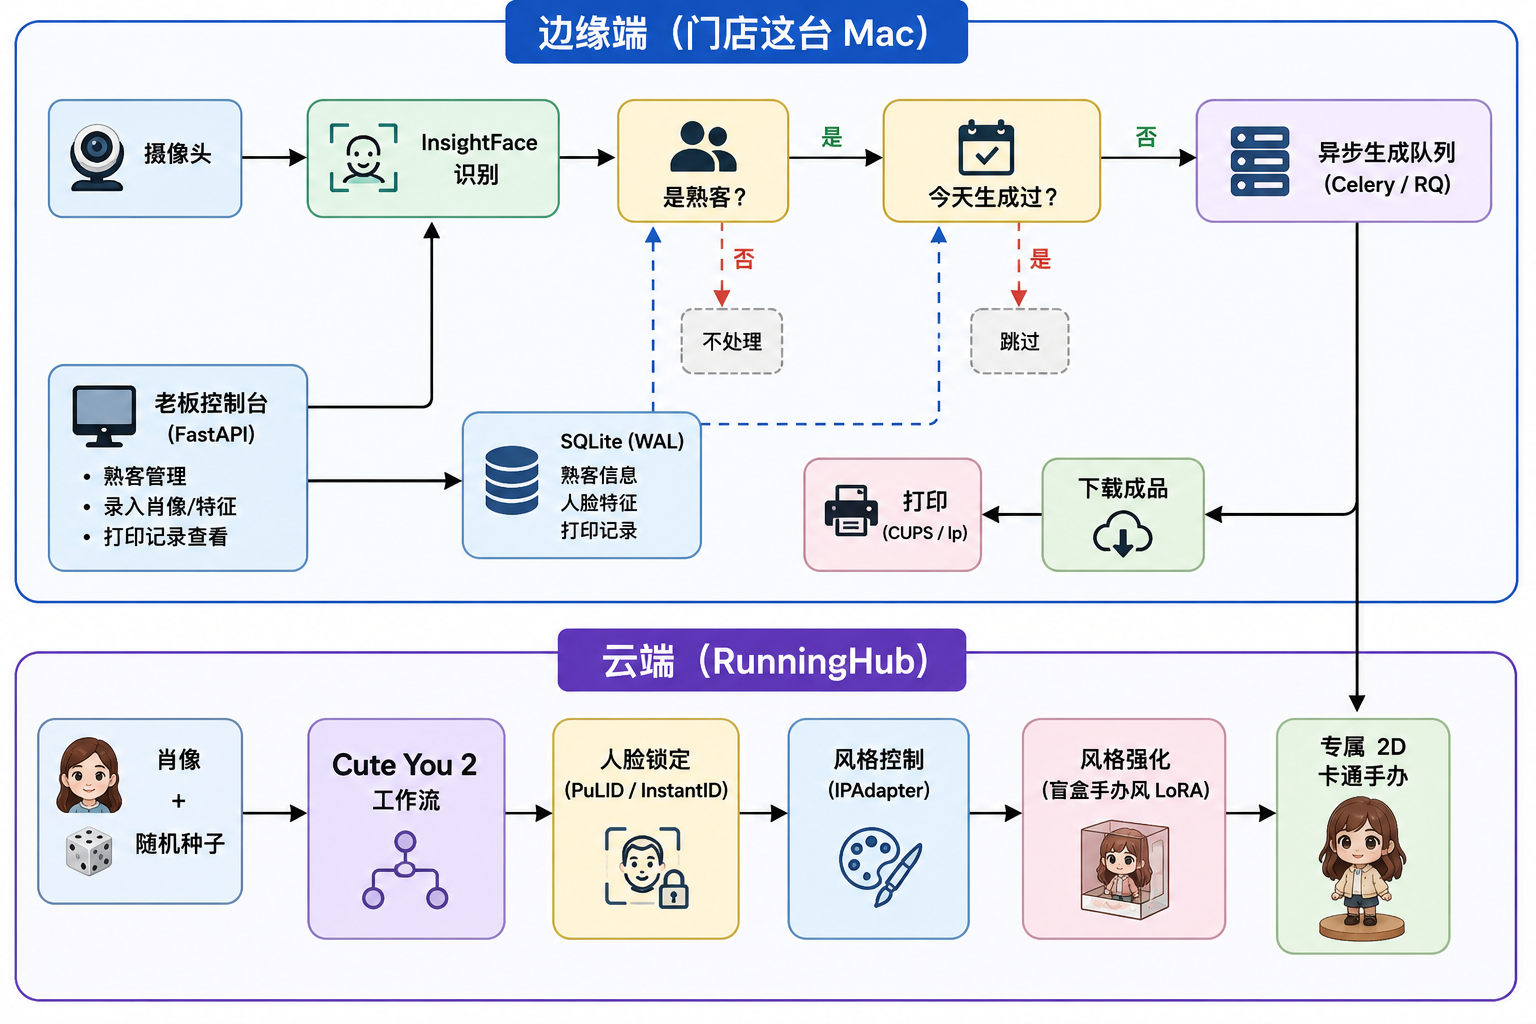
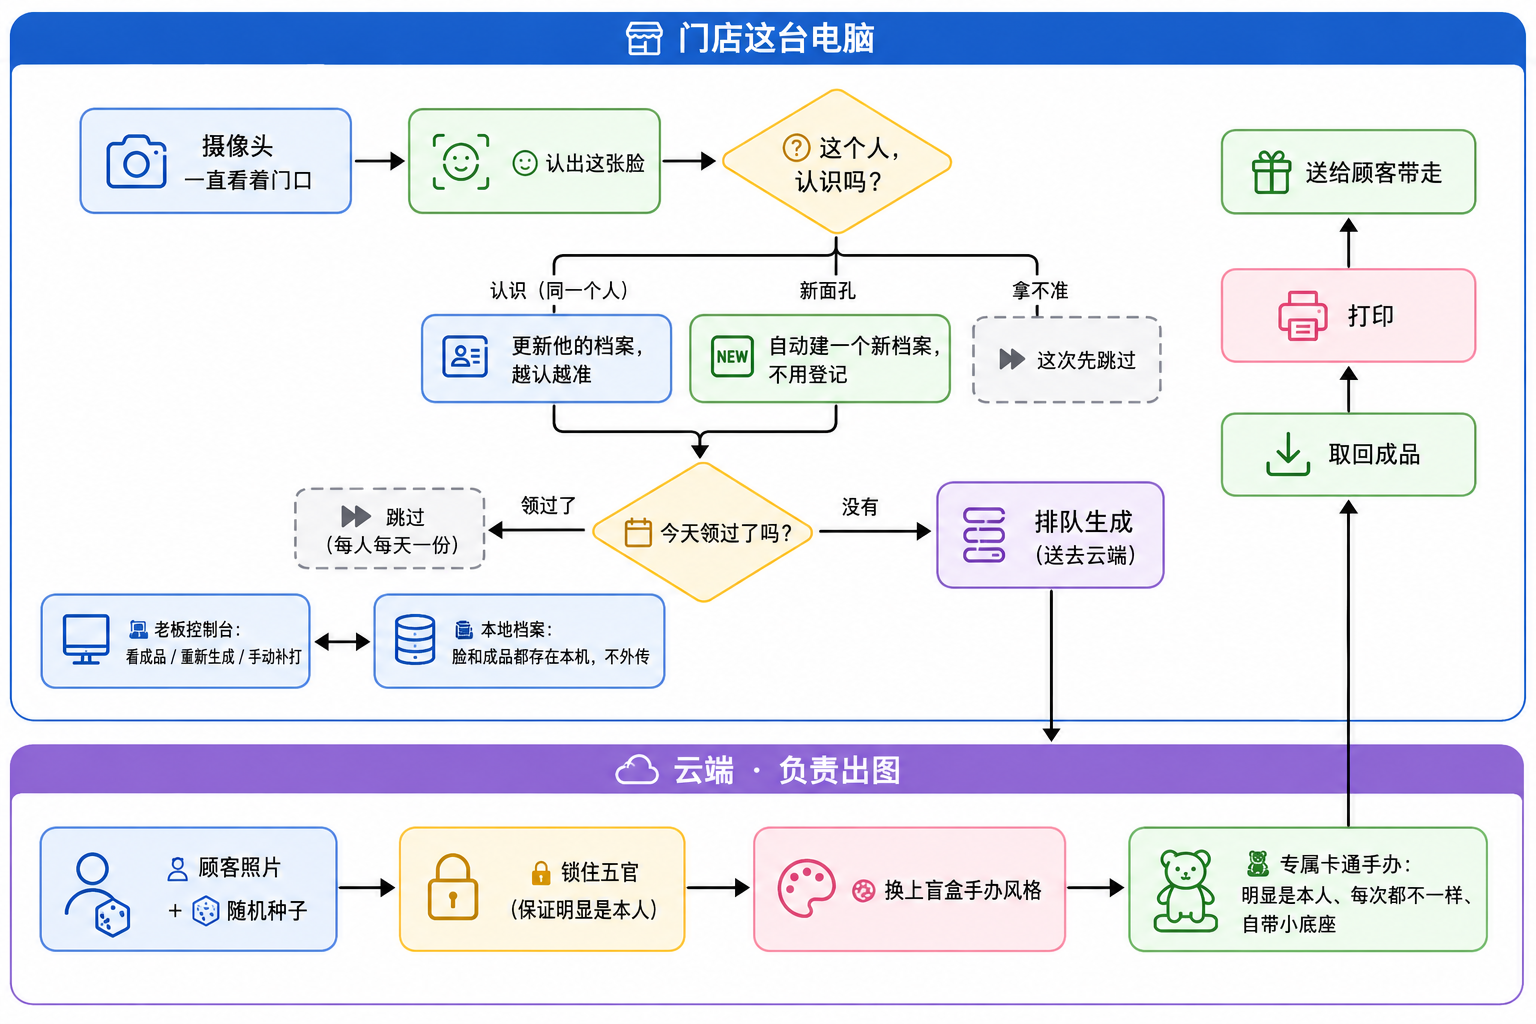
docs: 重定位 README 为「见脸即得」通用引擎,中英同步 + 新流程图
- 核心叙事从「熟客门槛系统」改为「见脸即得,熟客关系自动沉淀」
- 删除 未来规划 / 技术架构 / 阶段进度 三节,精简最近更新
- 修掉 match_threshold 死参数(实时路径不读),改用 match_high/match_low 双阈值
- 配置表/FAQ 补齐 auto_enroll、质量门槛、visitor_retention 等键
- 替换工作流程图 PNG 为新逻辑(非技术向白话版)

diff --git a/README_EN.md b/README_EN.md
@@ -2,10 +2,9 @@
 
 <p align="center"><a href="README.md">中文</a> | <b>English</b></p>
 
-<p align="center"><b>Bar regulars · Scan your face, get a personalized AI cartoon figurine · Printed on the spot</b></p>
+<p align="center"><b>Brick-and-mortar venues · Show your face, get a personalized AI cartoon figurine · Printed on the spot</b></p>
 
 <p align="center">
-  <img src="https://img.shields.io/badge/Stage-MVP_Validated-50C878" alt="Stage">
   <img src="https://img.shields.io/badge/Architecture-Edge_+_Cloud-4A90E2" alt="Architecture">
   <img src="https://img.shields.io/badge/Face_Recognition-InsightFace_ArcFace-EA4C89" alt="Recognition">
   <img src="https://img.shields.io/badge/Generation-RunningHub_ComfyUI-9B59B6" alt="Generation">
@@ -13,63 +12,64 @@
   <img src="https://img.shields.io/badge/Python-3.11-4A90E2" alt="Python">
 </p>
 
-When a regular walks in, the camera recognizes them and the system instantly generates a personalized cartoon figurine that's **unmistakably them — yet different every time**, then **prints it on the spot** as a keepsake to take home.
+The moment a customer shows their face, the camera recognizes them and **auto-files them**, and the system instantly generates a personalized cartoon figurine that's **unmistakably them — yet different every time**, then **prints it on the spot** as a keepsake to take home. **No enrollment required** — when the same person visits again, the system automatically clusters those faces into one person in the background, getting more accurate and more like them over time.
 
 In short: turn a **face-scan** into a personalized, scarce, take-home, share-worthy surprise gift — a **memorable, shareable** differentiator for brick-and-mortar venues.
 
 ```text
-Customer arrives  →  📷 Recognize regular  →  🗓 Once per day  →  🎨 Cloud-generate personalized cartoon (same identity · never repeats)  →  🖨 Print keepsake on the spot
+Customer arrives → 📷 Recognize & auto-file on sight → 🧠 Cluster to a person (better with every visit) → 🗓 Once per person per day → 🎨 Cloud-generate personalized cartoon (same identity · never repeats) → 🖨 Print keepsake on the spot
 ```
 
-> 📖 **Reading guide** — Owners: [What it delivers](#-what-it-delivers-for-your-venue) · [Quick Start](#-quick-start) · [How to Use](#-how-to-use) · [FAQ](#-faq). Investors: [Value & Moat](#-business-value--moat) · [Roadmap](#-roadmap).
+> 📖 **Reading guide** — Owners: [What it delivers](#-what-it-delivers-for-your-venue) · [Quick Start](#-quick-start) · [FAQ](#-faq). Investors: [Value & Moat](#-business-value--moat).
 
 <!-- Tip: drop a console screenshot / a face-scan→print demo GIF here — most compelling -->
 
+## 🆕 Core Model: Get It on Sight, Regulars Emerge Automatically
+
+HEYOU is no longer an "**enroll first, then recognize**" regulars-gating system. The core flow now is:
+
+- **Everyone who shows up gets one** — any face in front of the camera is auto-filed and generated. Zero enrollment, zero staff action.
+- **Regulars are recognized by the system itself** — when the same person returns, their face is automatically **clustered into the same person** (many views per person, ever more accurate) — no tagging by staff.
+- **Once per person per day** — dedup is per *person*, controlling cost while creating a "come back for today's drop" scarcity.
+- **Pure-regulars mode still available** — to serve only pre-enrolled regulars, set `orchestration.auto_enroll` to `false`.
+
+> This is the **fundamental business-logic difference** from earlier versions: from "reward pre-enrolled regulars" to "get it on sight, with the regular relationship accreting automatically in the background."
+
 ## 📋 Recent Updates
 
-- ✅ **2026-07-14** **Auto-enroll · cluster every face to a person**: no longer limited to pre-enrolled regulars — **any face that shows up is auto-enrolled**; each detected face is matched against the known database, merged into the **same person's feature library** if it's a returning face (more views → better recognition over time) or filed as a **new person** if not, then generated and printed as before (once per person per day). Includes a quality gate (rejects side/blurry faces), a two-threshold decision (fewer mismatches and duplicate records), a per-person library cap, automatic cleanup of inactive visitors, and an optional **global daily cap** for cost. Set `orchestration.auto_enroll` to `false` to serve only enrolled regulars.
-- ✅ **2026-07-14** **Full Windows parity**: real printing on the **Liene PixCut S1 with AI die-cut stickers** now works on Windows too, and the whole recognize → generate → print loop has been validated on real hardware. **Mac and Windows run the same code with identical features** — hands-free auto-printing on either; printer connection, cleanup, and continuous printing are all automated. Setup in [docs/WINDOWS.md](docs/WINDOWS.md).
-- ✅ **2026-06-29** **Windows 10 support**: the same codebase runs on Windows; printing can use the system printer or the official PixCut app, and the camera adapts automatically. See [docs/WINDOWS.md](docs/WINDOWS.md).
-- ✅ **2026-06-23** Printing upgraded to the **Liene PixCut S1 cut-printer**: real printing by driving the official app, with **AI die-cut** (sticker cut along the subject's contour) or plain full-bleed printing, switchable in config; the print backend toggles between `lp` (system CUPS printer) and `pixcut` (PixCut S1). Added a **debug mode** (runs the whole print flow but never clicks "Cut" — no print, no ribbon, logs success) and **continuous-print self-healing** (restart the print app every N prints to clear accumulated canvases / avoid tab buildup).
-- ✅ **2026-06-23** Log hygiene: service logs now **rotate by size** into `data/logs/` (default 5MB×5 ≈ 25MB cap, oldest auto-deleted) plus an age-based prune on startup — **so long runs never fill the disk**; the print path also cleans up the print app's own accumulated logs.
-- ✅ **2026-06-05** "Standing figurine" template fix: removed stray shoes, force full-body output with a built-in round base, and added exclude-tags to the auto-tagger (blocking "half-body / held-object" tags from polluting the template) — fixing the "half-body output, stray props" issue.
-- ✅ **2026-06-04** New "Cross-legged" pose template: a precise pose tag (`indian style`) controls the seated pose; the base is rendered as part of the 3D output — no external overlay image needed.
-- ✅ **2026-06-03** Console upgrades: paginated regulars management, generation history (configurable retention), a "Generate / Regenerate" state button, and a **manual-print fallback**.
-- ✅ **2026-06-02** Dark "nightclub" demo console launched; face recognition auto-starts/stops with the server and auto-releases the camera during enrollment (avoiding conflicts).
-- ✅ **2026-06-01** Cloud pipeline live end-to-end on RunningHub (upload → create task → inject portrait + random seed → poll → download, ≈2.3 min per image); fixed Cute You 2's implicit wiring so it runs reliably via API.
-- ✅ **Late May 2026** Phase 1 face-recognition loop: InsightFace detection + ArcFace embeddings, cosine matching, daily dedup.
+- ✅ **2026-07-14** **Auto-enroll · cluster every face to a person**: no longer limited to pre-enrolled regulars — **any face that shows up is auto-filed**; each detected face is matched against the known database, merged into the **same person's feature library** if it's a returning face (more views → better recognition over time) or filed as a **new person** if not, then generated and printed as before (once per person per day). Includes a quality gate (rejects side/blurry faces), a **two-threshold decision** (fewer mismatches and duplicate records), a per-person library cap, automatic cleanup of inactive visitors, and an optional **global daily cap** for cost.
+- ✅ **2026-07-14** **Full Windows parity**: real printing on the **Liene PixCut S1 with AI die-cut stickers** now works on Windows too, and the whole recognize → generate → print loop has been validated on real hardware. **Mac and Windows run the same code with identical features** — hands-free auto-printing on either. Setup in [docs/WINDOWS.md](docs/WINDOWS.md).
+- ✅ **2026-06-23** Printing upgraded to the **Liene PixCut S1 cut-printer**: real printing by driving the official app, with **AI die-cut** (sticker cut along the subject's contour) or plain full-bleed printing; the print backend toggles between `system` (OS CUPS/win32print printer) and `pixcut` (PixCut S1). Includes a **debug mode** (runs the whole print flow but never clicks "Cut" — no print, no ribbon) and **continuous-print self-healing** (restart the print app every N prints to clear accumulated canvases).
 
 ## 🎯 What It Delivers for Your Venue
 
 | Pain point | How HEYOU solves it |
 | --- | --- |
 | Homogeneous experience, nothing memorable | A **personalized cartoon** that's unmistakably them and one-of-a-kind — perfect for photos and social check-ins |
-| No hook to bring regulars back | A **regulars-only, once-a-day** scarce gift that builds a "come back for today's drop" habit |
-| Campaigns are hard and costly to run | Enroll once, then **auto-recognize and auto-generate** — zero staff effort, zero learning curve |
+| No hook to bring customers back | A **get-it-on-sight, once-per-person-per-day** scarce gift — and the system recognizes returning customers automatically, building a "come back for today's drop" habit |
+| Campaigns are hard and costly to run | **Zero enrollment, zero action** — everyone who shows up is auto-recognized, auto-filed, auto-generated; staff never touch a button |
 | Online spread is hit-or-miss | A take-home physical card = a **social-sharing vehicle** that carries your brand (branded card template on the roadmap) |
 
-**For staff**: enroll a regular's photo once; everything after is automatic — with a "manual reprint" fallback when things get busy.
+**For staff**: zero action — customers are recognized, filed, and printed fully automatically; there's a "manual reprint" fallback when things get busy.
 **For owners**: runs on an ordinary computer (**Mac or Windows**) + a camera + a printer, with heavy compute in the cloud — **launch and validate with minimal investment**.
 
 ## ✨ Highlights
 
-- ✅ **Recognizes regulars** — InsightFace (SCRFD detection + ArcFace embeddings) + cosine matching; tunable threshold, "**better to miss than to misidentify**".
+- ✅ **Recognize on sight · auto-cluster to a person** — InsightFace (SCRFD detection + ArcFace embeddings) + cosine similarity; a **two-threshold** decision: merge into the same person if similar enough, create a new person if clearly not, skip if uncertain — "**better to miss than to misidentify**"; more views per person = ever more accurate.
 - ✅ **Same identity · never the same twice** — PuLID + InstantID lock the facial features (**unmistakably them**); a random seed makes **every render different** — no duplicates.
 - ✅ **Multiple pose templates** — "Standing figurine" and "Cross-legged" already supported, each with a display base; templates are extensible.
-- ✅ **Once per person per day** — automatic dedup; controls cost and creates scarcity (count configurable).
-- ✅ **Owner console (dark nightclub style)** — enroll / paginated management / generation history / one-click regenerate / **manual-print fallback** / live status.
+- ✅ **Once per person per day** — per-person dedup; controls cost and creates scarcity (count configurable, with a global daily cap as a backstop).
+- ✅ **Owner console (dark nightclub style)** — paginated visitor/regular management / manual enroll / generation history / one-click regenerate / **manual-print fallback** / live status.
 - ✅ **Async generation, never blocks** — each ≈2.3 min cloud render is handled by a dedicated worker, **never blocking the camera loop**; in-flight & same-day guards.
-- ✅ **Edge + Cloud architecture** — the local Mac only runs recognition and scheduling; heavy generation lives in the cloud — **flexible, controllable compute cost**.
+- ✅ **Edge + Cloud architecture** — the local computer only runs recognition and scheduling; heavy generation lives in the cloud — **flexible, controllable compute cost**.
 - ✅ **Pluggable generation backend** — switch between `mock` (offline self-test, free) and `runninghub` (real generation) in one setting.
 - ✅ **Real printing · die-cut stickers** — supports the **Liene PixCut S1 cut-printer** (AI die-cut along the subject's contour) and ordinary system printers, switchable in one setting, with **real printing on both Mac and Windows**; includes a **debug mode** (runs the full flow without printing / consuming ribbon) and continuous-print self-healing.
 - ✅ **Cross-platform parity** — the same code runs identically on **macOS and Windows 10**: recognition, generation, and printing are all validated end-to-end on real hardware.
-- ✅ **Status at a glance** — three top indicators: Recognition (one-click toggle) / Engine (cloud connectivity) / Printer (connected & ready; the PixCut backend shows whether the official app is online).
+- ✅ **Automatic visitor cleanup** — auto-filed visitors are purged after a configurable period of inactivity, so the feature library never grows unbounded (manually enrolled regulars are unaffected).
 
 ## 📊 How It Works
 
 <img src="static/images/ChatGPT_Image_202601_51_23.png" alt="How it works"/>
-
-A four-step loop: **recognize → daily dedup → identity-consistent + random generation → print on the spot.** Every step is configurable and swappable (recognition threshold, generation template, print toggle).
 
 ## 🖼 Examples
 
@@ -77,7 +77,7 @@ A four-step loop: **recognize → daily dedup → identity-consistent + random g
 
 <table>
 <tr>
-<td width="50%" align="center"><b>Real Photo (input)</b><br/><sub>enrolled regular's portrait</sub></td>
+<td width="50%" align="center"><b>Real Photo (input)</b><br/><sub>in-venue customer portrait</sub></td>
 <td width="50%" align="center"><b>Personalized Cartoon Figurine (output)</b><br/><sub>same identity · random every time</sub></td>
 </tr>
 <tr>
@@ -105,9 +105,12 @@ uv run python scripts/run_server.py
 
 # (optional) self-check before going live: recognition / DB / generation backend
 uv run python scripts/smoke_test.py
+
+# (optional) validate the "auto-enroll → cluster" decision logic (offline, no camera, free)
+uv run python scripts/smoke_autoenroll.py
 ```
 
-After launch: enroll regulars' photos on the **Enroll** tab → recognition triggers automatically when they arrive → view results, regenerate, or manually print on the **Regulars** tab.
+After launch: **customers are recognized, filed, generated, and printed automatically on arrival (once per person per day) — no enrollment needed**; in the console you can view results, regenerate, manually reprint, and also manually enroll/manage regulars.
 
 > 🪟 **Windows 10**: the same code runs on Windows with identical features (PixCut real printing or a system printer, camera adapts automatically) — see **[docs/WINDOWS.md](docs/WINDOWS.md)** for setup and printer configuration.
 
@@ -119,44 +122,22 @@ Global configuration lives in `config.yaml`.
 | --- | --- |
 | `generation.backend` | `mock` (offline self-test, free) \| `runninghub` (real cloud generation) |
 | `generation.runninghub.workflow_id` | which workflow (standing / cross-legged use different IDs) |
-| `recognition.match_threshold` | cosine similarity threshold; higher = stricter (better to miss than to misidentify) |
+| `orchestration.auto_enroll` | **Auto-enroll master switch** (default `true`): every in-venue face is auto-filed and clustered to a person; set `false` to fall back to the old "pre-enrolled regulars only" mode |
+| `recognition.match_high` · `match_low` | auto-cluster **two thresholds** (cosine similarity, higher = stricter): `≥ match_high` → same person, merge into their library; `< match_low` → new person; in between → uncertain, skip |
+| `recognition.min_face_px` · `enroll_min_det_score` · `enroll_max_pose_deg` | quality gates: min face pixels / min detection confidence / max pitch-yaw angle — loosen these to make recognition catch **more** faces |
 | `orchestration.daily_limit` | max generations per person per day (default `1`) |
+| `orchestration.global_daily_cap` | all-users daily generation ceiling for cost safety (`0` = unlimited) |
 | `storage.history_retention_days` | days to keep generation history (default `3`) |
+| `storage.visitor_retention_days` | purge auto-filed visitors after N days of inactivity (default `30`; manually enrolled regulars unaffected) |
 | `printing.enabled` | auto-print toggle (currently `false`; manual print as fallback, enable once hardware is finalized) |
-| `printing.backend` | print backend: `system` (cross-platform OS printer: CUPS on mac/Linux, win32print on Windows) \| `pixcut` (drives the official app for die-cut stickers, **mac + Windows**) |
-| `printing.pixcut.cutout` | PixCut: apply **AI die-cut** each print (sticker cut along the contour; consumes a die-cut credit) |
-| `printing.pixcut.dry_run` | PixCut **debug mode**: run the whole flow but never click "Cut" — no print, no ribbon, logs success |
-| `printing.pixcut.restart_every` | PixCut: restart the app every N prints to clear accumulated canvases (default `10`, `0` = off) |
-| `logging.max_bytes` · `backup_count` | service-log rotation size · kept rotations (default `5MB × 5` ≈ 25MB hard cap) |
-| `logging.retention_days` | prune logs older than N days on startup (default `7`, `0` = off) |
-
-## 💻 How to Use
-
-The console has two tabs — **Enroll** and **Regulars** — with three live status indicators on top.
-
-### Top status indicators
-- **Recognition** — online / paused / off (click to toggle)
-- **Engine** — RunningHub cloud connectivity
-- **Printer** — connected and ready or not
-
-### Enroll (add a regular)
-- Supports **drag-and-drop / click-to-upload / live capture** (capturing auto-pauses recognition to release the camera)
-- The system auto-detects the face, extracts embeddings, and stores them; one clear front-facing photo is enough
-
-### Regulars (day-to-day operations)
-- **Paginated list**, each regular showing their portrait; those generated today also show the latest cartoon
-- **State button**: not generated today → `Generate`; already generated → `Regenerate`; in progress → disabled
-- **Manual print**: a fallback when auto-print fails — reprint the latest output with one click
-- **Generation history**: view the last N days (retention configurable)
-- **Delete**: remove a regular and their portrait
-
-### Customer arrives (fully automatic)
-No staff action needed: recognition detects the regular → if not yet generated today, it auto-queues generation → (once auto-print is enabled) it prints automatically.
+| `printing.backend` | print backend: `system` (OS printer: CUPS on mac/Linux, win32print on Windows) \| `pixcut` (drives the official app for die-cut stickers, **mac + Windows**) |
+| `printing.pixcut.cutout` · `dry_run` · `restart_every` | AI die-cut (sticker cut along contour) / debug mode (full flow, no real print / ribbon) / restart the app every N prints to clear canvases |
+| `logging.max_bytes` · `backup_count` · `retention_days` | service-log rotation size · kept rotations · prune-on-startup age (default `5MB × 5` ≈ 25MB) |
 
 ## ❓ FAQ
 
-**Q: What about strangers (not pre-enrolled)?**
-A: By default it **auto-enrolls every face**: anyone who shows up is filed automatically, repeat visits are merged into one person (recognition improves as views accumulate), new faces create a new person, and it generates + prints as usual. To serve only pre-enrolled regulars, set `orchestration.auto_enroll` to `false`.
+**Q: What happens to people who aren't pre-enrolled?**
+A: This is exactly the point of the new version — by default it **auto-enrolls every face**: anyone who shows up is filed automatically, repeat visits are clustered into one person (recognition improves and looks more like them as views accumulate), new faces create a new person, and it generates + prints as usual. **No enrollment whatsoever.** To serve only pre-enrolled regulars, set `orchestration.auto_enroll` to `false`.
 
 **Q: Why only once per day per person?**
 A: It controls cloud cost and creates an "exclusive scarcity" that encourages return visits. The count is configurable in `config.yaml`; you can also set `orchestration.global_daily_cap` as an all-users daily ceiling for cost safety.
@@ -164,14 +145,14 @@ A: It controls cloud cost and creates an "exclusive scarcity" that encourages re
 **Q: How close is the likeness?**
 A: InstantID + PuLID lock the facial features — **unmistakably them**; a random seed varies the pose and details each time — **same identity, never a repeat**.
 
-**Q: Could it misidentify someone?**
-A: It uses a high threshold and a "better to miss than to misidentify" policy; tune via `match_threshold`.
+**Q: Could it misidentify someone / split one person into several?**
+A: Auto-clustering uses **two thresholds** (`recognition.match_high` / `match_low`): merge into an existing person only when similar enough, create a new person only when clearly different, and skip anything uncertain — "better to miss, or even file a duplicate, than to wrongly merge into someone else." Tune it via `match_high` / `match_low` and the quality gates (`min_face_px`, etc.). (Note: the legacy `match_threshold` is used only by the offline `smoke_test.py` — the live recognition path **does not read it**.)
 
 **Q: How is privacy handled?**
-A: Face **embeddings** and portraits are stored **locally** in SQLite and never leave the machine; only the portrait is sent to RunningHub at generation time. With auto-enroll on, in-venue faces are captured automatically; auto-enrolled visitors are purged after `storage.visitor_retention_days` (30 by default) of inactivity. For a real deployment, handle local notice/consent and retention compliance.
+A: Face **embeddings** and portraits are stored **locally** in SQLite and never leave the machine; only the portrait is sent to RunningHub at generation time. With auto-enroll on, in-venue faces are captured automatically; auto-filed visitors are purged after `storage.visitor_retention_days` (30 by default) of inactivity. For a real deployment, handle local notice/consent and retention compliance.
 
 **Q: Roughly how much does it cost?**
-A: Local recognition is free; each generation consumes RunningHub paid credits, capped at one per person per day — overall controllable. Use the `mock` backend for zero-cost self-testing.
+A: Local recognition is free; each generation consumes RunningHub paid credits, capped at one per person per day (with a global daily cap as a backstop) — overall controllable. Use the `mock` backend for zero-cost self-testing.
 
 **Q: Any printer requirements?**
 A: Two backends, switched via `printing.backend` in `config.yaml`: `system` uses any OS printer (CUPS on mac/Linux, win32print on Windows); `pixcut` drives the **Liene PixCut S1 cut-printer**'s official app for **AI die-cut** stickers (cut along the subject's contour) and full-bleed prints — **works on both macOS and Windows**. To validate the whole chain without consuming ribbon, use `printing.pixcut.dry_run` (runs the full flow but doesn't really print). Auto-print (`printing.enabled`) is off by default with manual fallback, to be enabled once the on-site setup is finalized.
@@ -182,65 +163,25 @@ A: Two backends, switched via `printing.backend` in `config.yaml`: `system` uses
 
 **Why now**
 
-- Mature generative AI + the rise of the offline experience economy — "scan your face, get a personalized IP" is finally low-friction to deploy
-- A venue only needs an ordinary Mac + camera + printer, with heavy compute in the cloud — **validate first, invest later**
+- Mature generative AI + the rise of the offline experience economy — "show your face, get a personalized IP" is finally low-friction to deploy
+- A venue only needs an ordinary computer + camera + printer, with heavy compute in the cloud — **validate first, invest later**
 
 **The hook**
 
-- **Personalized** (unmistakably them) × **Scarce** (once a day) × **Take-home** (physical card) × **Shareable** (social spread)
+- **Personalized** (unmistakably them) × **Scarce** (once per person per day) × **Take-home** (physical card) × **Shareable** (social spread)
+- **Zero-friction experience**: get it on sight — no QR scan, no signup, no staff enrollment
 
 **Technical moat (not "just a filter")**
 
 - **Identity-consistent, controllable, templated generation**: lock the face (InstantID/PuLID) + lock pose & base (prompt engineering, ControlNet next) + controlled randomness — "different every time, yet unmistakably them"
+- **Auto identity-clustering on sight**: two thresholds + quality gates + a multi-embedding library per person keep recognizing the same person ever more accurately with no manual tagging, while suppressing wrong merges and duplicate records
 - **Edge–cloud decoupling + pluggable backend**: switch scenes by swapping templates; flexible compute cost
-- **Productized end-to-end loop**: recognize → dedup → async generate → print, with scheduling, status monitoring and fallbacks — already validated on real hardware
+- **Productized end-to-end loop**: recognize → cluster → dedup → async generate → print, with scheduling, status monitoring and fallbacks — already validated on real hardware
 
 **Transferability**
 
-- The same engine ports to **restaurants / livehouses / expos / pop-ups / attractions / brand events** — a general "scan-to-personalized-avatar" capability
+- The same engine ports to **restaurants / livehouses / expos / pop-ups / attractions / brand events** — a general "get-a-personalized-avatar-on-sight" capability
 
 **Potential business models**
 
 - All-in-one hardware + consumables (stickers) + SaaS subscription / per-print revenue share; a unified multi-store platform for chains; venue-owned IP skins / collaborations / seasonal editions
-
-## 🔮 Roadmap
-
-### 🟢 Next Version (Planned)
-
-- **Branded card template** — composite **logo + customer nickname + date (+ QR code)** onto the output — a ready-to-share branded sticker/card
-- **Enable auto-print** — the PixCut S1 real-print chain is **wired into the console on both Mac and Windows** (with AI die-cut, debug mode, and continuous-print self-healing); flip `printing.enabled` on once the on-site setup is finalized for a hands-free "recognize → print" loop
-- **ControlNet pose locking** — lock "full body + pose + base" with a full-body skeleton, **fully solving the occasional "half-body output" from front/half-body inputs**; pose templates become freely extensible
-- **Pose/style template library** — beyond standing and cross-legged, add more poses and **seasonal/themed skins**
-- **Monitoring platform + auth** — multi-device/remote view of runtime status, generation and print counts; owner login (the console is currently local and unauthenticated)
-
-### 🟡 To Be Decided (after a demo round)
-
-- **Deployment hardware** — external camera (USB / IP), deployment PC (Mac / Windows), printer choice (color vs. **B&W thermal sticker** — thermal would need a line-art workflow swap)
-- **Throughput** — currently single cloud concurrency (limit = 1); decide a peak-time queuing / multi-concurrency strategy
-- **New-customer flow** — QR self-enrollment, first-visit onboarding
-
-### 🔵 Long-term Vision
-
-- Grow from "bar-regular gifts" into a **general "scan-to-personalized-IP" engine** spanning offline venues
-- Accumulate **visit-frequency / activity / retention** dashboards to power venue operations
-- **IP-ification and social virality**: venue-owned skins, collaborations, seasonal limited editions — shareable content assets
-
-## 🧱 Tech Architecture (for technical due diligence)
-
-| Layer | Components |
-| --- | --- |
-| **Edge (macOS / Windows 10)** | InsightFace (buffalo_l: SCRFD + ArcFace, CPU/onnxruntime) · FastAPI console + async generation worker · SQLite (WAL) · printing: system printer (CUPS on mac/Linux, win32print on Windows) or Liene PixCut S1 (UI-automation of the official app, AI die-cut, identical on Mac & Windows) · camera adapts automatically (DirectShow on Windows) · size-rotating self-cleaning logs |
-| **Cloud (RunningHub)** | OpenAPI async REST · Cute You 2 workflow (PuLID + InstantID + IPAdapter + blind-box figurine LoRA) |
-| **Engineering** | uv / Python 3.11 · pydantic config · pluggable backend (`mock` \| `runninghub`) · centralized `config.yaml` (gitignored) |
-
-## 📌 Progress
-
-- [x] Solution design & RunningHub API research
-- [x] **Phase 1** face-recognition loop: recognition / DB / enrollment web / mock output (`smoke_test.py`, `smoke_server.py` pass)
-- [x] Phase 1 on-device: camera recognition loop (sim ≈ 0.90–0.95, daily dedup works)
-- [x] **Phase 2** real cloud generation: full RunningHub pipeline (upload → create → inject portrait + random seed → poll → download, ≈2.3 min/image), async worker / same-day dedup / in-flight guard
-- [x] Phase 2 end-to-end on-device: recognize → real cartoon → print (output as expected)
-- [x] **Cross-platform**: identical features on macOS and Windows 10; PixCut real-print flow validated end-to-end on both
-- [x] Demo console: dark nightclub style (enroll / paginated regulars / state button / history / manual-print fallback / status monitoring)
-- [x] Pose templates: standing figurine, cross-legged (both with a base)
-- [ ] Next (see [Roadmap](#-roadmap)): branded card composition, enable auto-print, ControlNet pose locking, monitoring platform + auth, deployment hardware